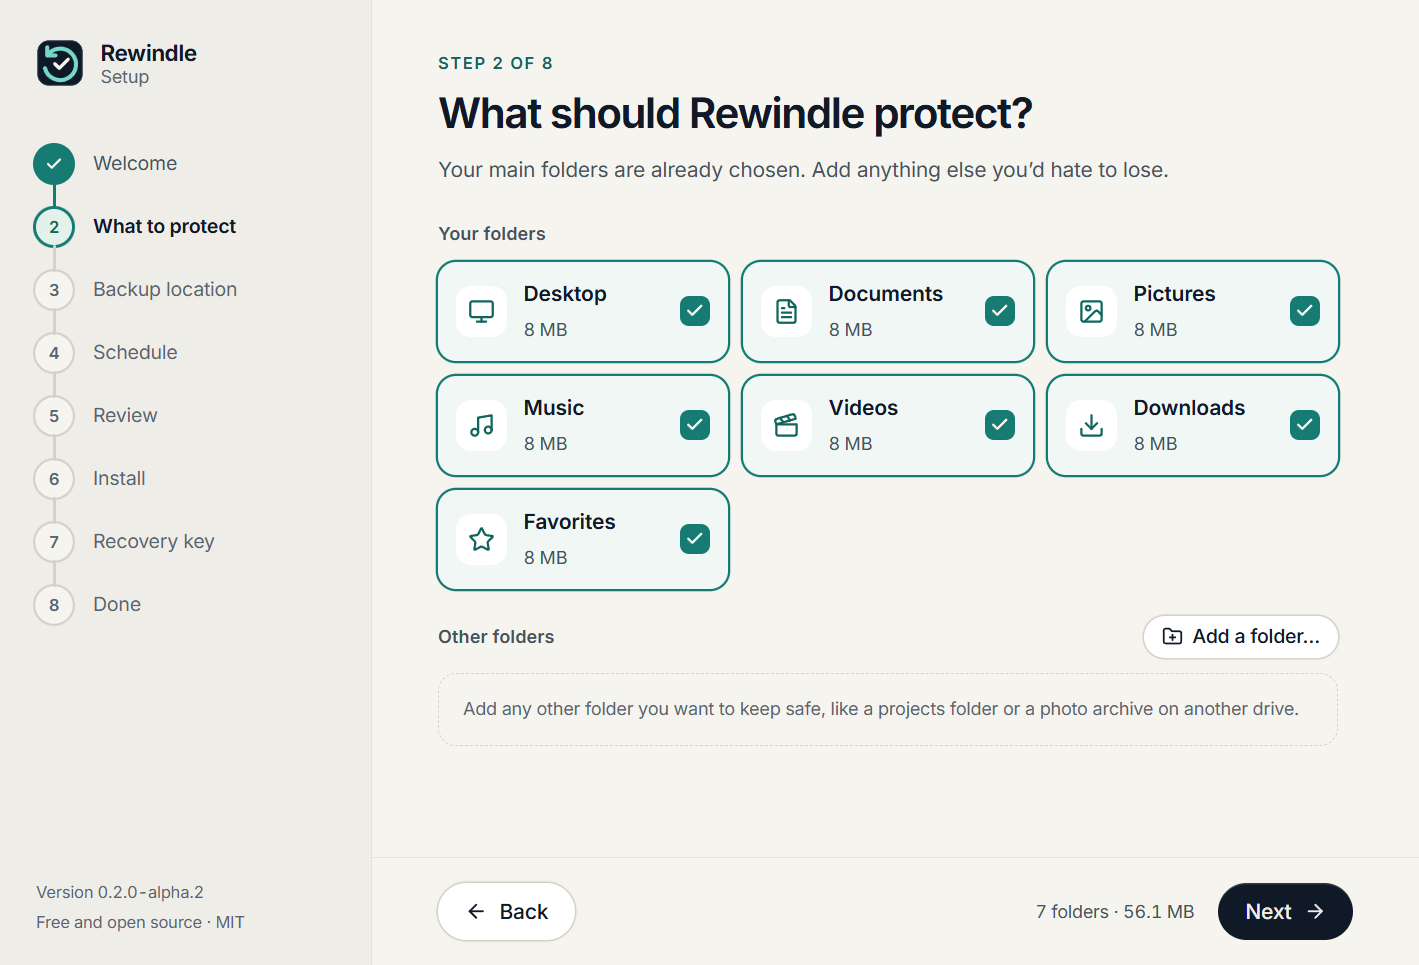
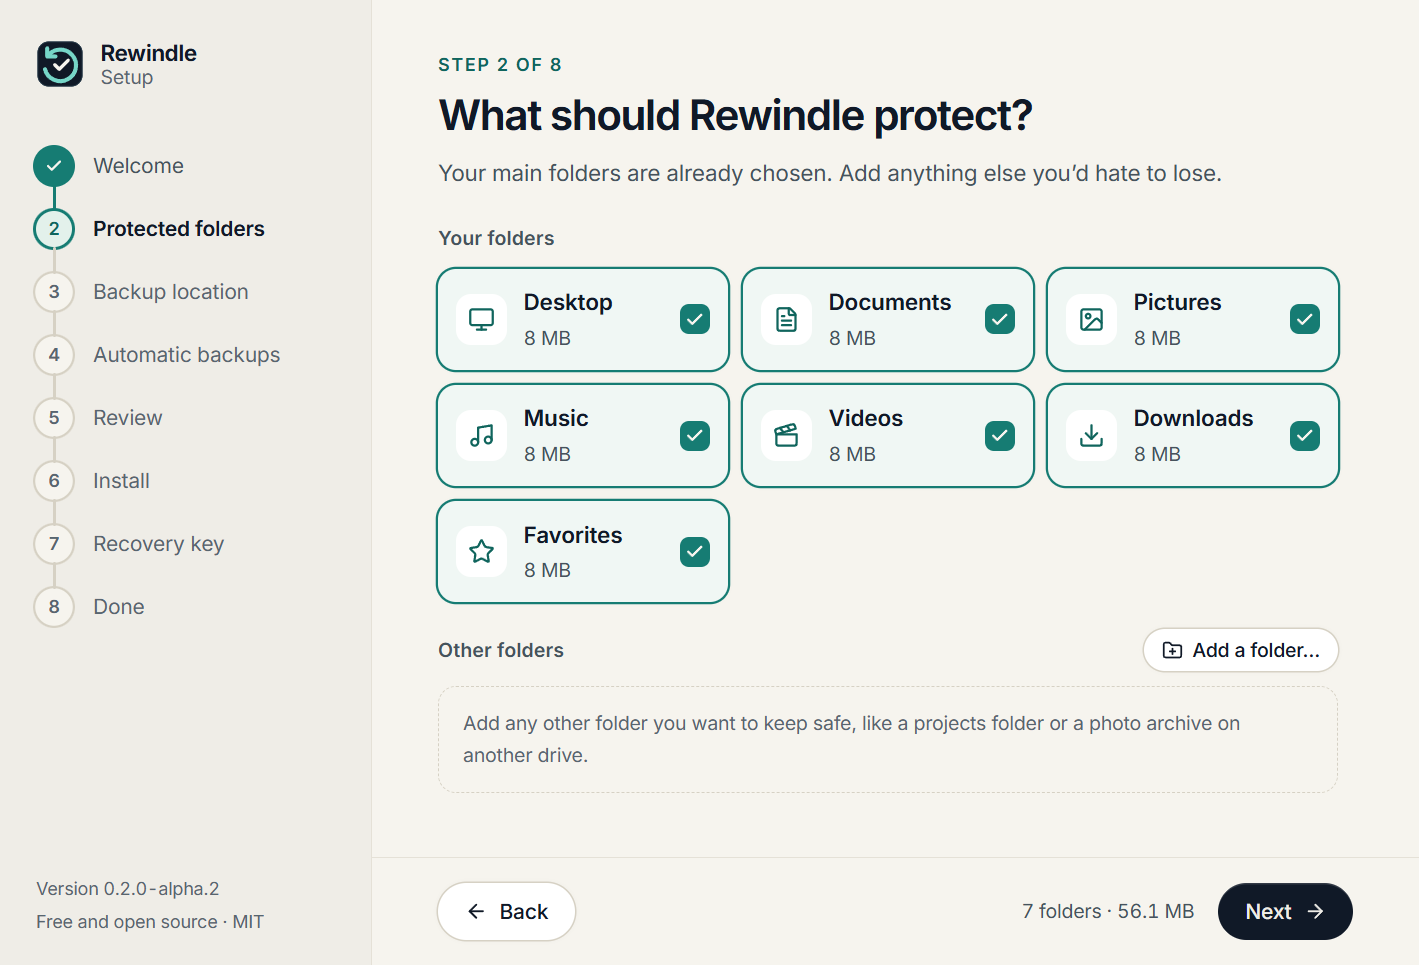
Docs: the UX pass in the changelog, fresh Setup screenshots, and the label the dashboard now shows
The Setup window test's sample USB stick now sends a reason code and its own sentence, as the installer does, so its
screenshot shows why the drive can't be used and how to format it. The README and architecture notes name the
not-installed state by its new label, "Backup service not installed".

diff --git a/tests/SetupWindowSmoke.cs b/tests/SetupWindowSmoke.cs
@@ -58,7 +58,9 @@ namespace Rewindle.Setup.Smoke
             Dictionary<string, object> windows = Volume("C:\\", "Windows", "fixed", 476 * GB, 182 * GB, true, true, true, null, false);
             Dictionary<string, object> data = Volume("D:\\", "Data", "fixed", 465 * GB, 318 * GB, false, true, true, null, false);
             Dictionary<string, object> backup = Volume("E:\\", "Backup Drive", "removable", 1863 * GB, 1652 * GB, false, false, true, null, true);
-            Dictionary<string, object> stick = Volume("F:\\", "USB STICK", "removable", 29 * GB, 21 * GB, false, false, false, "This drive uses FAT32. Backups need a drive formatted as NTFS.", false);
+            Dictionary<string, object> stick = Volume("F:\\", "USB STICK", "removable", 29 * GB, 21 * GB, false, false, false, "not_ntfs", false);
+            // The installer sends a code and its own sentence, as Install-ResticBackuper.ps1 does, so the page shows both and its format help.
+            stick["ineligible_message"] = "This drive uses FAT32. Backups need a drive formatted as NTFS.";
             stick["filesystem"] = "FAT32";
 
             Dictionary<string, object> plan = new Dictionary<string, object>();

diff --git a/CHANGELOG.md b/CHANGELOG.md
@@ -9,12 +9,51 @@ labels. Releases before 0.2.0 were published under the name ResticBackuper.
 
 ### Changed
 
-- Activity no longer treats every failed or incomplete run as something to act
-  on. A run that a later successful backup put right is marked **Resolved**,
-  in a neutral color, and its details say that nothing needs doing and keep
-  the run's next step as advice for next time. The "Needs attention" filter is
-  now **Problems**. The page warns, with a link to the details, only when no
-  backup has succeeded since a run that failed.
+A pass over every page of the dashboard and Setup, so that nothing raises an
+alarm without saying what to do, each fact is said once, and the words are
+ones a home user reads without a glossary.
+
+- **Activity** no longer treats every failed or incomplete run as something to
+  act on. A run that a later successful backup put right is marked
+  **Resolved**, in a neutral color, and its details say that nothing needs
+  doing. The page warns, with a link to the details, only when no backup has
+  succeeded since a run that failed. The figures at the top are successful
+  backups, the usual backup time and the new data in the last backup; the
+  filter chips are Successful, Problems (or Resolved) and Cancelled, with date
+  presets; the two charts sit side by side, and a run that worked keeps its log
+  folded.
+- **Protection** names what is wrong (an unplugged backup drive, a missing
+  folder, an empty plan, a schedule that can't be read) with one next step, and
+  colors the page only when there is something to do. A failed run is
+  described in a plain sentence from its failure code, with a "See what
+  happened" button. The last verified backup reads "yesterday at 2:03 AM", the
+  off-site copy waits calmly for its next check, and the folder list says
+  "Stop backing up".
+- **Restore** says once per step what to do, shows the newest backup first
+  with a "Newest" mark, explains why files go to a separate folder (and where
+  inside it they land), and turns refusals from the backup service into plain
+  sentences. `npm run dev:demo` can walk the whole flow on invented data.
+- **Settings** has three sections (Backup plan, Appearance with a Text size
+  card, Help and about with the problem report and keyboard shortcuts). The
+  sidebar no longer repeats recent runs, the header drops the always-on
+  "connected" light, and the theme button steps through System, Light and Dark.
+  The text size is kept between launches.
+- **Times** everywhere come from one formatter in the viewer's own clock,
+  including the next run and the schedule ("Daily at 2:00 AM").
+- **Words**: the dashboard, its tray texts, the folder picker, the recovery
+  readiness window and the uninstaller no longer say repository, snapshot,
+  engine, canary, Restic or "protected task" to the user; they say backup,
+  backup location, backup service and restore test file. Retry buttons say
+  "Try again". The unusual-change review asks the person to "Confirm these
+  changes".
+- **Folder picker** warns before adding a OneDrive folder or one whose files
+  are stored only in the cloud, with a bounded check that never refuses a
+  folder on a guess.
+- **Setup** renames its steps Protected folders and Automatic backups, explains
+  how to format a FAT32 or exFAT drive as NTFS, walks through OneDrive's
+  "Always keep on this device", marks the recovery key "Saved and checked",
+  ignores Enter on the Review page so a stray key press never installs, and
+  uses a slightly larger type scale, shared with the dashboard.
 
 ## [0.2.0-alpha.2] - 2026-10-08
 

diff --git a/docs/architecture.md b/docs/architecture.md
@@ -68,7 +68,7 @@ engine whose protected install root holds `backup-config.json` (Rewindle first
 when both do), or the one named by `--engine rewindle|legacy`. A root that
 cannot be inspected counts as installed, so the dashboard never silently falls
 through to the other engine. With neither installed, the pages that need an
-engine show **Engine not installed** and where the dashboard looked. A profile
+engine show **Backup service not installed** and where the dashboard looked. A profile
 changes only the names used; every check made with them (UAC, nonce- and
 digest-bound requests, path, ACL and reparse-point checks, the runtime
 manifest) is the same for both. The complete interface, and how each engine

diff --git a/README.md b/README.md
@@ -469,7 +469,7 @@ engine profile**:
 - The dashboard picks its engine when it starts: the Rewindle engine if it is
   installed, otherwise the personal edition. `--engine rewindle` or
   `--engine legacy` chooses explicitly. If neither is installed, it shows
-  **Engine not installed** and where it looked.
+  **Backup service not installed** and where it looked.
 - The two engines use different names, so the Rewindle installer neither
   detects nor changes a personal-edition installation.
 - There is no migration. The Rewindle installer will not adopt the personal
